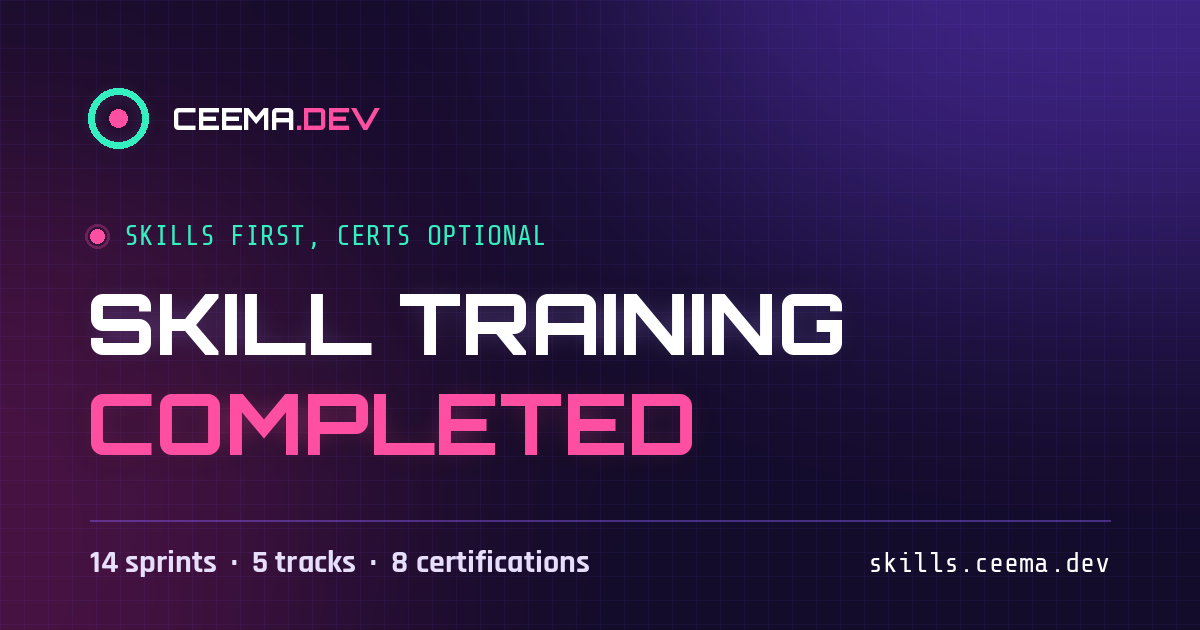
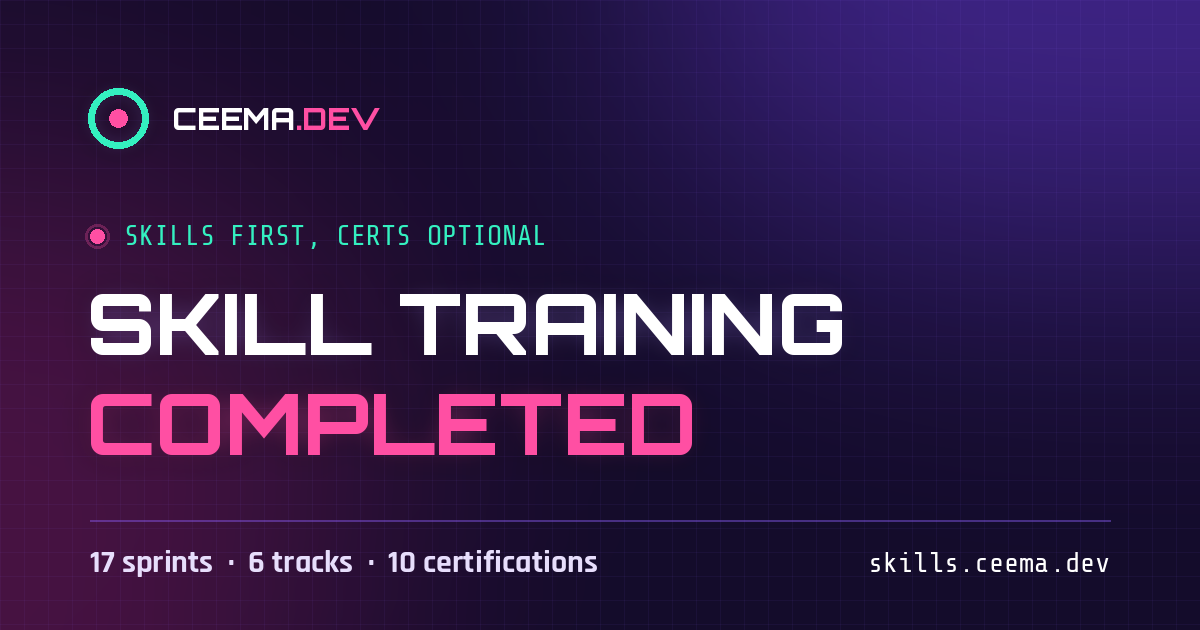
Add Foundations track: F1-F3, A+ and Network+ gates, Track F
Track E now includes Foundations (68 weeks). Home copy, resources
text and share image (17 sprints, 6 tracks, 10 certifications) updated.

Claude-Session: https://claude.ai/code/session_013uGgGs4yETPC1cbEiiJ8dQ

Changed region(s): [[0.0617, 0.8746, 0.4933, 0.9349]]

diff --git a/src/index.src.html b/src/index.src.html
@@ -4,7 +4,7 @@
 <meta charset="UTF-8">
 <meta name="viewport" content="width=device-width, initial-scale=1.0, viewport-fit=cover">
 <title>Skill Training Completed</title>
-<meta name="description" content="A skills-first study path for Windows Server, Azure, Linux, cloud and security. One home lab, fourteen sprints, certifications optional.">
+<meta name="description" content="A skills-first study path from IT basics to Windows Server, Azure, Linux, cloud and security. One home lab, seventeen sprints, certifications optional.">
 <link rel="icon" type="image/png" href="/favicon.png?v=2">
 <link rel="apple-touch-icon" href="/apple-touch-icon.png?v=2">
 <meta name="theme-color" content="#140c2b">
@@ -12,7 +12,7 @@
 <meta property="og:title" content="Skill Training Completed">
 <meta property="og:description" content="A skills-first study path for Windows Server, Azure, Linux, cloud and security. Certifications optional.">
 <meta property="og:url" content="https://skills.ceema.dev/">
-<meta property="og:image" content="https://skills.ceema.dev/og.png?v=3">
+<meta property="og:image" content="https://skills.ceema.dev/og.png?v=4">
 <meta property="og:image:width" content="1200">
 <meta property="og:image:height" content="630">
 <meta property="og:image:alt" content="Skill Training Completed: skills first, certs optional">
@@ -62,7 +62,7 @@ __SHARED_CSS__
   <section class="hero">
     <span class="eyebrow">Skills first, certs optional</span>
     <h1>Skill Training <span>Completed</span></h1>
-    <p>One home lab and fourteen sprints covering Windows Server, Azure, Linux, cloud and security. Each sprint ends with something you built and someone else can check. Certifications are optional gates along the way.</p>
+    <p>One home lab and seventeen sprints, from IT basics through Windows Server, Azure, Linux, cloud and security. Each sprint ends with something you built and someone else can check. Certifications are optional gates along the way.</p>
     <div class="ctas"><a class="btn btn-primary" href="calendar.html">Plan my calendar</a><a class="btn btn-ghost" href="__KIT_URL__">Download the study kit</a></div>
   </section>
 
@@ -77,13 +77,13 @@ __SHARED_CSS__
 
   <section id="tracks">
     <h2>Pick a track</h2>
-    <p class="lede">All five tracks use the same sprints. Your pick sets which ones you do and whether you sit exams. Week counts assume about 8 hours a week.</p>
+    <p class="lede">All six tracks use the same sprints. Your pick sets which ones you do and whether you sit exams. Week counts assume about 8 hours a week.</p>
     <div class="cards">__TRACK_CARDS__</div>
   </section>
 
   <section id="sprints">
-    <h2>The fourteen sprints</h2>
-    <p class="lede">The plan starts with Windows and Azure so the AZ-802 gate lands early, and each sprint adds a short Linux lane.</p>
+    <h2>The seventeen sprints</h2>
+    <p class="lede">F1 to F3 are the Foundations sprints, for people new to IT. The core path, S0 to S13, starts with Windows and Azure so the AZ-802 gate lands early, and each core sprint adds a short Linux lane.</p>
     <div class="sprints">__SPRINT_ROWS__</div>
   </section>
 

diff --git a/src/resources.src.html b/src/resources.src.html
@@ -12,7 +12,7 @@
 <meta property="og:title" content="Resources - Skill Training Completed">
 <meta property="og:description" content="Microsoft Learn, CompTIA, LPI, Sybex and Udemy links for every exam on the path.">
 <meta property="og:url" content="https://skills.ceema.dev/resources.html">
-<meta property="og:image" content="https://skills.ceema.dev/og.png?v=3">
+<meta property="og:image" content="https://skills.ceema.dev/og.png?v=4">
 <meta property="og:image:width" content="1200">
 <meta property="og:image:height" content="630">
 <meta property="og:image:alt" content="Skill Training Completed: skills first, certs optional">
@@ -58,13 +58,13 @@ __SHARED_CSS__
   <section class="hero">
     <span class="eyebrow">Study resources</span>
     <h1>Resources</h1>
-    <p>Where to study for each exam on the path, plus two foundation certs: official training and objectives, the Sybex study guides and the best-rated Udemy courses.</p>
+    <p>Where to study for each exam on the path: official training and objectives, the Sybex study guides and the best-rated Udemy courses.</p>
     <div class="jump"><a class="btn btn-ghost" href="#foundations">Foundations</a><a class="btn btn-ghost" href="#microsoft">Microsoft Learn</a><a class="btn btn-ghost" href="#udemy-microsoft">Udemy: AZ courses</a><a class="btn btn-ghost" href="#comptia">CompTIA</a><a class="btn btn-ghost" href="#lpi">LPI</a></div>
   </section>
 
   <section id="foundations">
     <h2>Foundations: A+ and Network+</h2>
-    <p class="lede">These two aren't on the path. If you're new to IT, they cover the hardware, support and networking basics the sprints assume.</p>
+    <p class="lede">Track F covers these two in sprints F1 to F3, and Track E starts with them. They cover the hardware, support and networking basics the core sprints assume.</p>
     <div class="cards">__FOUNDATION__</div>
   </section>
 

diff --git a/src/calendar.src.html b/src/calendar.src.html
@@ -12,7 +12,7 @@
 <meta property="og:title" content="Study Calendar - Skill Training Completed">
 <meta property="og:description" content="Pick a track, a start date and your weekly hours. Get a sprint-by-sprint study calendar.">
 <meta property="og:url" content="https://skills.ceema.dev/calendar.html">
-<meta property="og:image" content="https://skills.ceema.dev/og.png?v=3">
+<meta property="og:image" content="https://skills.ceema.dev/og.png?v=4">
 <meta property="og:image:width" content="1200">
 <meta property="og:image:height" content="630">
 <meta property="og:image:alt" content="Skill Training Completed: skills first, certs optional">
